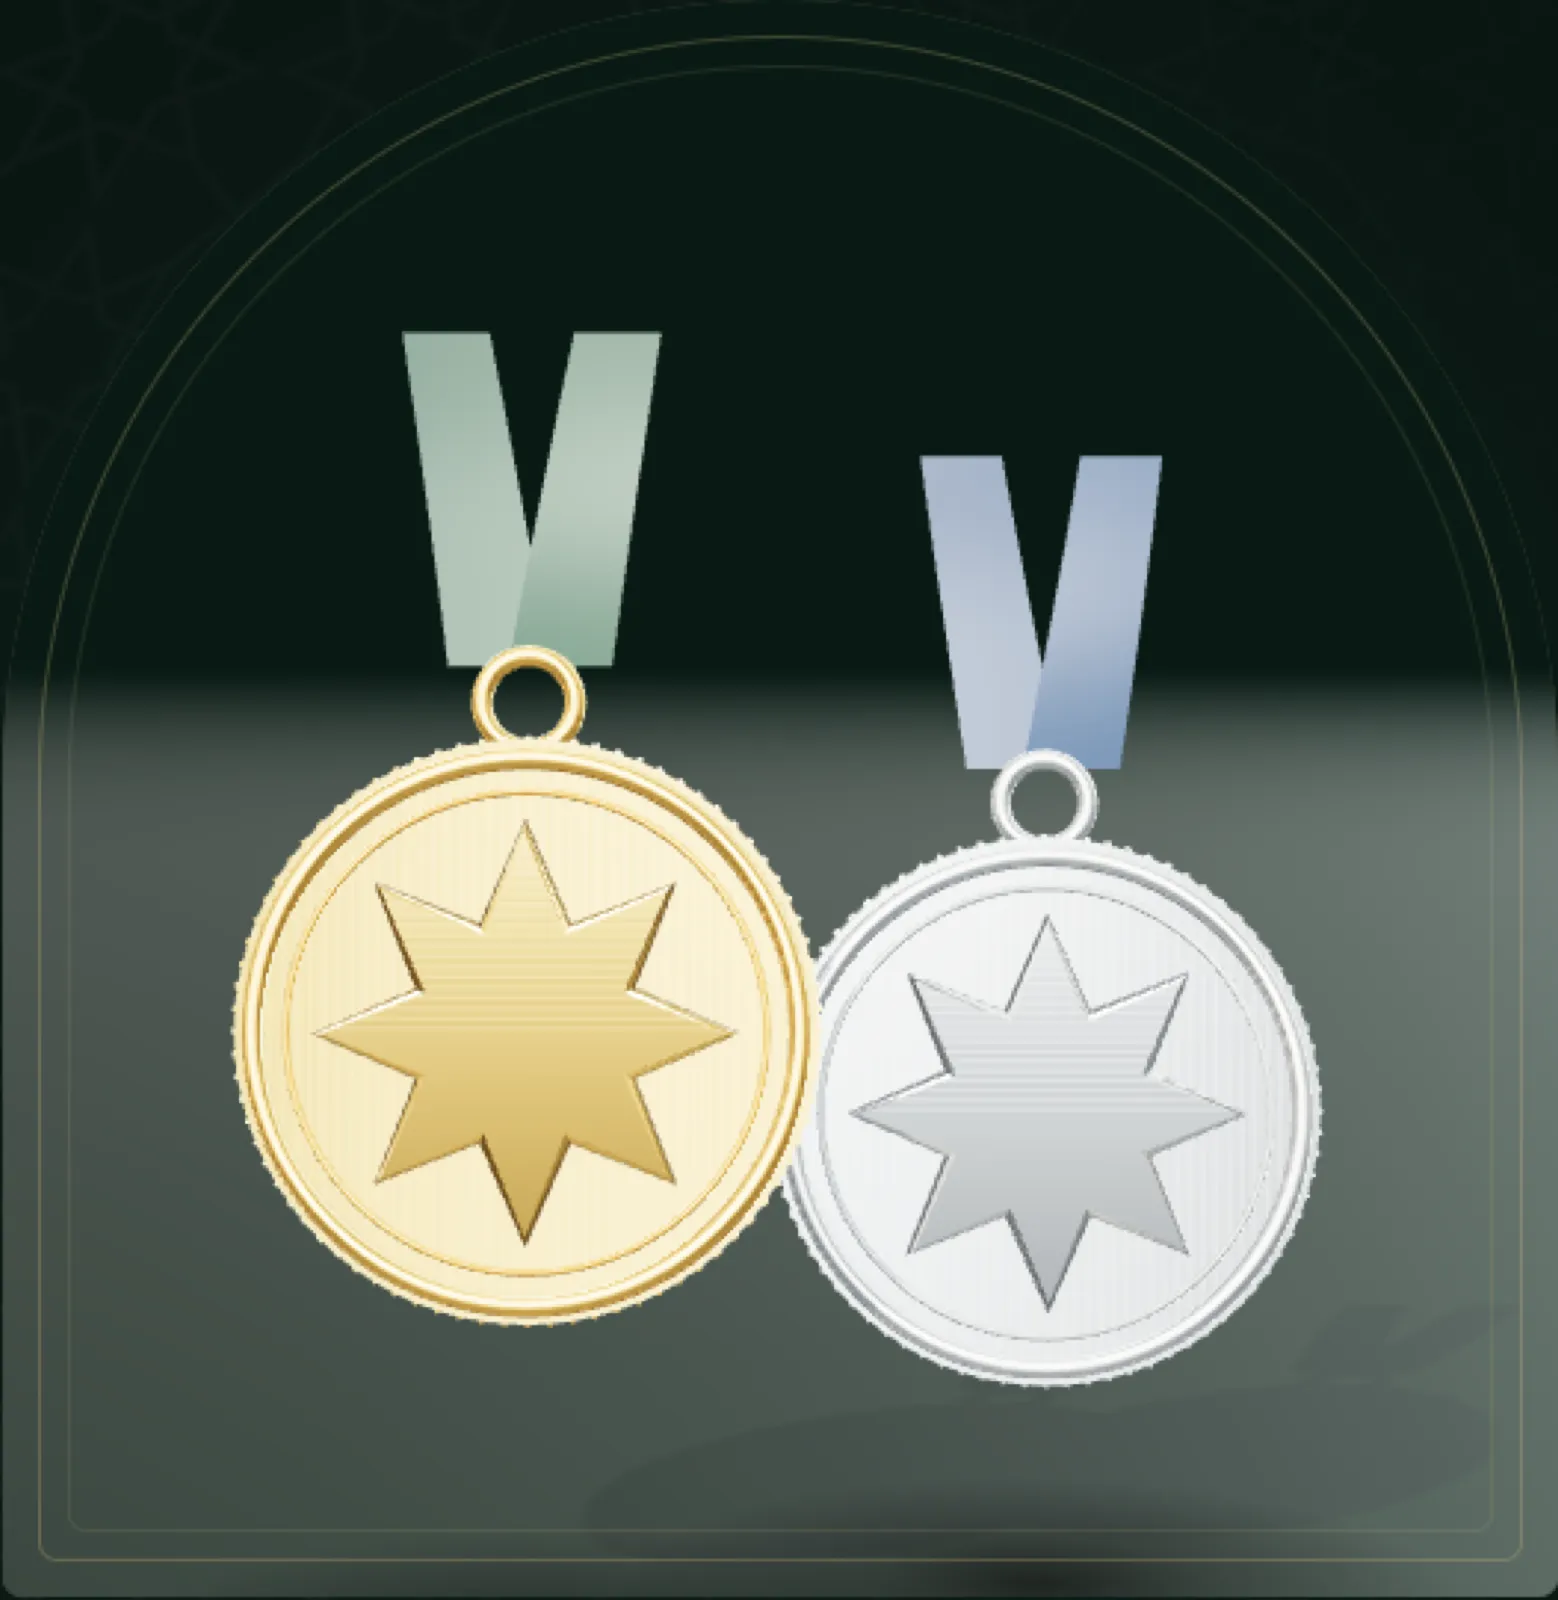
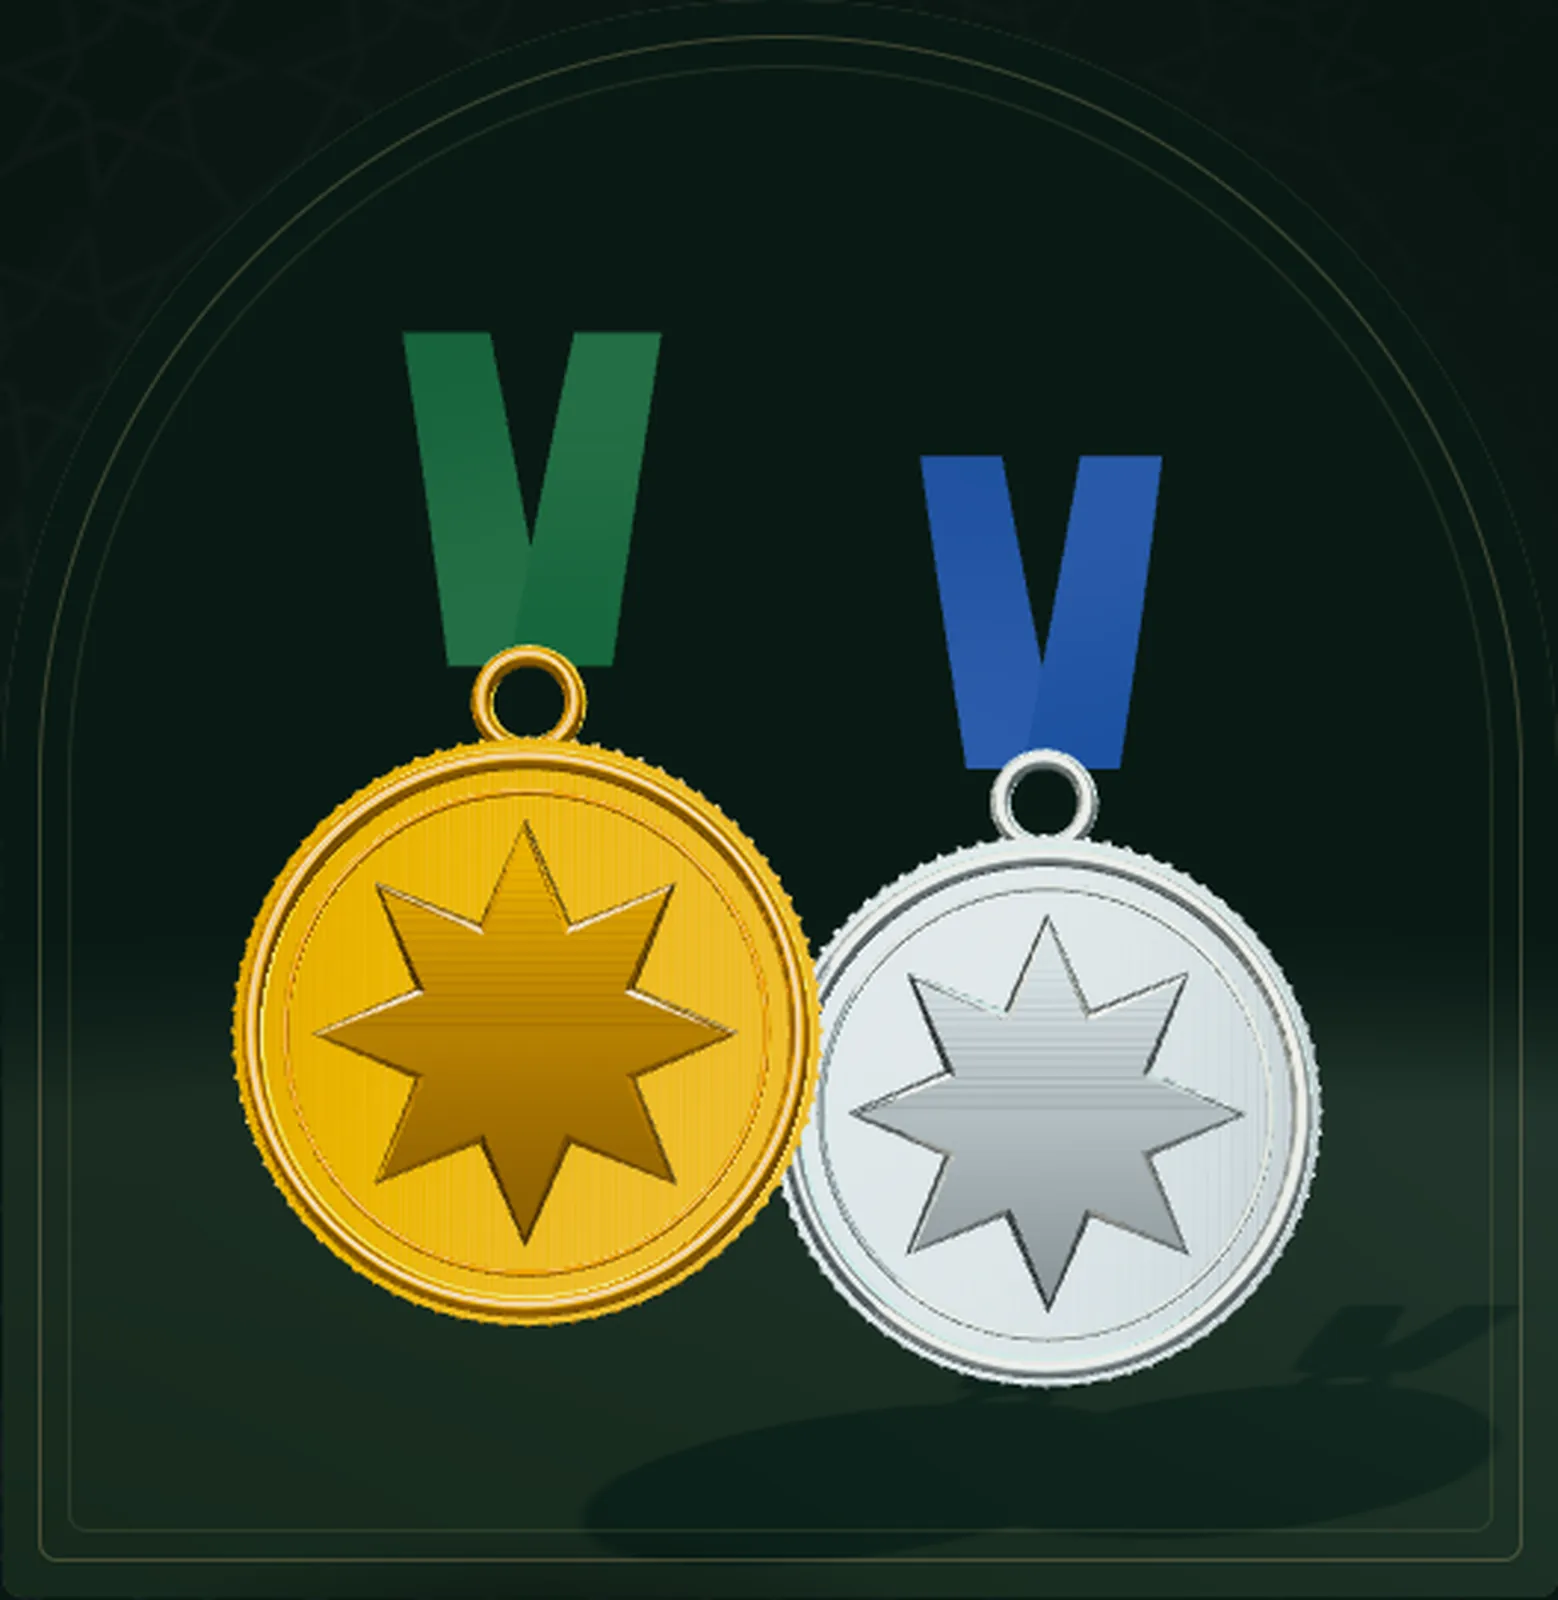
Pusingan 5: gred warna 3D (tone mapping Neutral + kontras), kulit buku dan skrin peranti terang, Jamiah lebih kaya warna, kitab berbingkai lapis dan emas, poster dijana semula

diff --git a/js/scenes/manuscript.js b/js/scenes/manuscript.js
@@ -10,10 +10,10 @@ const KEYS = [
   { p: 1, d: 0.8, e: 46, sx: 0, syPortrait: 0.04, ty: 1.5 },
 ];
 const TEX_W = 1024, TEX_H = 1572;
-const INK = '#1c140d', GOLD = '#8a6b34', RUBRIC = '#7a2e1e';
+const INK = '#1c140d', GOLD = '#9a6c1e', LAPIS = '#1f4877', GILT = '#e2bd62', RUBRIC = '#7a2e1e';
 
-function rosette(g, cx, cy, r, lw = 2) {
-  g.save(); g.translate(cx, cy); g.strokeStyle = GOLD; g.lineWidth = lw;
+function rosette(g, cx, cy, r, lw = 2, ink = GOLD) {
+  g.save(); g.translate(cx, cy); g.strokeStyle = ink; g.lineWidth = lw;
   for (const [n, k, rr] of [[8, 3, r], [8, 2, r * 0.62], [16, 7, r * 0.36]]) {
     g.beginPath();
     for (let i = 0; i <= n; i++) {
@@ -40,9 +40,9 @@ function wrap(g, text, max) {
 // bukan tulisan olok-olok). spineRight = halaman kiri, tulang di sebelah kanan lukisan.
 function paintPage(g, w, h, kind, copy, spineRight) {
   const rtl = copy.rtl, serif = rtl ? '"Amiri", "Noto Naskh Arabic", "Geeza Pro", serif' : '"Cormorant Garamond", Georgia, serif';
-  g.fillStyle = '#e9dcc0'; g.fillRect(0, 0, w, h);
+  g.fillStyle = '#f0e6d0'; g.fillRect(0, 0, w, h);
   const glow = g.createRadialGradient(w / 2, h / 2, 60, w / 2, h / 2, h * 0.72);
-  glow.addColorStop(0, 'rgba(255,250,236,.5)'); glow.addColorStop(1, 'rgba(150,118,70,.2)');
+  glow.addColorStop(0, 'rgba(255,250,236,.5)'); glow.addColorStop(1, 'rgba(150,118,70,.16)');
   g.fillStyle = glow; g.fillRect(0, 0, w, h);
   let seed = 4127;
   const random = () => { seed = (seed * 1664525 + 1013904223) >>> 0; return seed / 4294967296; };
@@ -50,10 +50,13 @@ function paintPage(g, w, h, kind, copy, spineRight) {
   const gutter = g.createLinearGradient(spineRight ? w : 0, 0, spineRight ? w - 150 : 150, 0);
   gutter.addColorStop(0, 'rgba(60,40,18,.34)'); gutter.addColorStop(1, 'rgba(60,40,18,0)');
   g.fillStyle = gutter; g.fillRect(0, 0, w, h);
-  g.strokeStyle = GOLD; g.lineWidth = 5; g.strokeRect(74, 74, w - 148, h - 148);
-  g.lineWidth = 1.6; g.strokeRect(90, 90, w - 180, h - 180); g.strokeRect(62, 62, w - 124, h - 124);
+  // Bingkai berhias: jalur lapis di antara dua garis emas, seperti halaman kitab bertazhib.
+  g.strokeStyle = LAPIS; g.lineWidth = 18; g.strokeRect(76, 76, w - 152, h - 152);
+  g.strokeStyle = GILT; g.lineWidth = 2; g.strokeRect(76, 76, w - 152, h - 152);
+  g.strokeStyle = GOLD; g.lineWidth = 4; g.strokeRect(90, 90, w - 180, h - 180); g.strokeRect(62, 62, w - 124, h - 124);
+  g.lineWidth = 1.6; g.strokeRect(102, 102, w - 204, h - 204);
   for (const [x, y] of [[90, 90], [w - 90, 90], [90, h - 90], [w - 90, h - 90]]) {
-    g.fillStyle = '#e9dcc0'; g.beginPath(); g.arc(x, y, 30, 0, Math.PI * 2); g.fill(); rosette(g, x, y, 22, 1.6);
+    g.fillStyle = LAPIS; g.beginPath(); g.arc(x, y, 32, 0, Math.PI * 2); g.fill(); g.strokeStyle = GOLD; g.lineWidth = 3; g.stroke(); rosette(g, x, y, 21, 2, GILT);
   }
   g.textAlign = 'center'; g.textBaseline = 'middle'; g.direction = rtl ? 'rtl' : 'ltr';
   const cx = w / 2, max = w - 290;
@@ -68,10 +71,10 @@ function paintPage(g, w, h, kind, copy, spineRight) {
     try { g.letterSpacing = '0px'; } catch { /* pilihan */ }
   };
   // Tiada tulisan pada mana-mana halaman (permintaan pemilik): hiasan geometri sahaja.
-  if (kind === 'body' || kind === 'fields') { rule(330); rosette(g, cx, h / 2, 130, 2.2); rosette(g, cx, h / 2, 50, 1.6); rule(h - 330); return; }
+  if (kind === 'body' || kind === 'fields') { rule(330); rosette(g, cx, h / 2, 130, 3.6); g.fillStyle = LAPIS; g.beginPath(); g.arc(cx, h / 2, 58, 0, Math.PI * 2); g.fill(); rosette(g, cx, h / 2, 50, 2.4, GILT); rule(h - 330); return; }
   if (kind === 'title') kind = 'ornament';
   if (kind === 'ornament') {
-    rosette(g, cx, h / 2, 250, 2.6); rosette(g, cx, h / 2, 96, 1.8);
+    rosette(g, cx, h / 2, 250, 4.2); g.fillStyle = LAPIS; g.beginPath(); g.arc(cx, h / 2, 111, 0, Math.PI * 2); g.fill(); rosette(g, cx, h / 2, 96, 3, GILT);
     rule(h / 2 - 400); rule(h / 2 + 400);
     return;
   }
@@ -151,7 +154,7 @@ export default async function create(ctx) {
       map.anisotropy = aniso;
       // Halaman kiri dicermin oleh geometri (scale.x = -1 atau muka belakang); tekstur dibalikkan semula.
       if (mirrored) { map.wrapS = THREE.RepeatWrapping; map.repeat.x = -1; map.offset.x = 1; }
-      faces[kind] = { map, mirrored, material: s.material({ map, color: 0xd9d2c4, roughness: 0.94, side: kind === 'body' ? THREE.FrontSide : kind === 'ornament' ? THREE.BackSide : THREE.DoubleSide }) };
+      faces[kind] = { map, mirrored, material: s.material({ map, color: 0xe4e4e2, roughness: 0.94, side: kind === 'body' ? THREE.FrontSide : kind === 'ornament' ? THREE.BackSide : THREE.DoubleSide }) };
     }
     const repaint = () => {
       const copy = readCopy(feature);

diff --git a/js/scenes/jamiah.js b/js/scenes/jamiah.js
@@ -161,7 +161,7 @@ export default async function create(ctx) {
   // Dua mood: Malam (senja zamrud, lampu galeri hangat) dan Pagi (matahari pagi Riyadh, langit gading).
   const skies = {
     night: backdrop([[0, '#050a08'], [0.54, '#091310'], [0.68, '#0e1b16'], [1, '#07100d']]),
-    day: backdrop([[0, '#c9d6d8'], [0.45, '#efe7d6'], [1, '#e9dcc4']]),
+    day: backdrop([[0, '#aecbdc'], [0.5, '#ece6d8'], [1, '#e9dcc4']]),
   };
   scene.fog = new THREE.FogExp2(0x0c1915, 0.0105);
   scene.environment = ctx.env;
@@ -184,13 +184,13 @@ export default async function create(ctx) {
   const box = new THREE.Box3().setFromObject(model);
   const size = box.getSize(new THREE.Vector3()), center = box.getCenter(new THREE.Vector3());
   const MATERIALS = {
-    stone: () => masonry(new THREE.MeshStandardMaterial({ color: 0xd8bf96, vertexColors: true, roughness: 0.91, metalness: 0 })),
+    stone: () => masonry(new THREE.MeshStandardMaterial({ color: 0xd9c3a0, vertexColors: true, roughness: 0.91, metalness: 0 })),
     bronze: () => new THREE.MeshStandardMaterial({ color: 0x5a4328, roughness: 0.3, metalness: 0.92, envMapIntensity: 1.8 }),
-    slate: () => ribbed(new THREE.MeshStandardMaterial({ color: 0x4f595e, roughness: 0.56, metalness: 0.42, envMapIntensity: 0.85 }), SPOTS.dome.at[0], SPOTS.dome.at[2]),
-    glass: () => new THREE.MeshStandardMaterial({ color: 0x0d1b20, roughness: 0.08, metalness: 0.9, envMapIntensity: 1.4, emissive: 0xdca055, emissiveIntensity: 0.48 }),
-    foliage: () => foliageTone(new THREE.MeshStandardMaterial({ color: 0x4a5938, roughness: 0.86, metalness: 0, flatShading: true })),
-    shrub: () => shrubby(new THREE.MeshStandardMaterial({ color: 0x37402e, roughness: 0.94, metalness: 0, flatShading: true })),
-    lawn: () => new THREE.MeshStandardMaterial({ color: 0x445235, roughness: 0.98, metalness: 0 }),
+    slate: () => ribbed(new THREE.MeshStandardMaterial({ color: 0x3d6276, roughness: 0.5, metalness: 0.42, envMapIntensity: 0.85 }), SPOTS.dome.at[0], SPOTS.dome.at[2]),
+    glass: () => new THREE.MeshStandardMaterial({ color: 0x0d1b20, roughness: 0.08, metalness: 0.9, envMapIntensity: 1.4, emissive: 0xffa94a, emissiveIntensity: 0.48 }),
+    foliage: () => foliageTone(new THREE.MeshStandardMaterial({ color: 0x4b6a37, roughness: 0.86, metalness: 0, flatShading: true })),
+    shrub: () => shrubby(new THREE.MeshStandardMaterial({ color: 0x35502b, roughness: 0.94, metalness: 0, flatShading: true })),
+    lawn: () => new THREE.MeshStandardMaterial({ color: 0x48603a, roughness: 0.98, metalness: 0 }),
     sign: (source) => signMap
       ? new THREE.MeshStandardMaterial({ map: signMap, transparent: true, alphaTest: 0.04, depthWrite: false, roughness: 0.62, metalness: 0.1, envMapIntensity: 0.6, polygonOffset: true, polygonOffsetFactor: -4, polygonOffsetUnits: -4 })
       : new THREE.MeshStandardMaterial({ color: 0xfff3dc, map: source.map, roughness: 0.8, metalness: 0 }),
@@ -283,8 +283,8 @@ export default async function create(ctx) {
   scene.add(key, fill, rim, pool, pool.target);
 
   const MOODS = {
-    night: { sky: skies.night, fog: 0x091310, fogD: 0.0115, env: 0.48, exposure: 0.96, key: [0xffd7a3, 2.45], keyPos: [-1.6, 0.95, 1.15], fill: [0x7e9fb3, 0x1c1510, 0.38], rim: [0xd9c192, 1.45], rimPos: [1.4, 0.85, -1.6], pool: 140, lantern: 34, floor: 0x091310, floorRough: 0.78, plinth: plinthNight, glass: 0.48, medallion: 0.075, contact: 0.65 },
-    day: { sky: skies.day, fog: 0xebe2d0, fogD: 0.0072, env: 0.75, exposure: 1.0, key: [0xfff1dc, 4.6], keyPos: [1.1, 1.05, 1.35], fill: [0xdfe9f0, 0xb79f7a, 1.25], rim: [0xfff4e0, 0.5], rimPos: [1.2, 0.7, -1.5], pool: 0, lantern: 0, floor: 0xd9ccb3, floorRough: 0.7, plinth: plinthDay, glass: 0, medallion: 0.16, contact: 0.4 },
+    night: { sky: skies.night, fog: 0x091310, fogD: 0.0115, env: 0.4, exposure: 0.9, key: [0xffe3c0, 2.9], keyPos: [-1.6, 0.95, 1.15], fill: [0x7e9fb3, 0x1c1510, 0.38], rim: [0xd9c192, 1.45], rimPos: [1.4, 0.85, -1.6], pool: 140, lantern: 34, floor: 0x091310, floorRough: 0.78, plinth: plinthNight, glass: 1.1, medallion: 0.075, contact: 0.65 },
+    day: { sky: skies.day, fog: 0xebe2d0, fogD: 0.0072, env: 0.5, exposure: 0.86, key: [0xfff6e8, 4.0], keyPos: [1.1, 1.05, 1.35], fill: [0xd6e6f2, 0x9c8d76, 0.78], rim: [0xfff4e0, 0.5], rimPos: [1.2, 0.7, -1.5], pool: 0, lantern: 0, floor: 0xdcd3c0, floorRough: 0.7, plinth: plinthDay, glass: 0, medallion: 0.16, contact: 0.4 },
   };
   // Kabus diskalakan dengan jarak asas kamera: skrin potret meletakkan kamera lebih jauh,
   // jadi ketumpatan tetap akan menenggelamkan model pada telefon.

diff --git a/js/scenes/library.js b/js/scenes/library.js
@@ -29,7 +29,8 @@ function book(s, entry, cover, paper, edges) {
   const depth = 0.075 + entry.page_count / 2 * 0.0012;
   const leatherMap = s.own(surfaceTexture('leather'));
   const leather = s.material({ color: entry.dominant_color_hex, map: leatherMap, bumpMap: leatherMap, bumpScale: 0.006, roughness: 0.56 });
-  const front = s.material({ map: cover, roughness: 0.49, metalness: 0, envMapIntensity: 0.45 });
+  // Kulit sebenar: sedikit emisif daripada imej yang sama supaya warnanya kekal terang pada semua sudut.
+  const front = s.material({ map: cover, emissive: 0xffffff, emissiveMap: cover, emissiveIntensity: 0.14, roughness: 0.56, metalness: 0, envMapIntensity: 0.3, fog: false });
   s.mesh(root, rounded(w, h, 0.036, 0.018), leather, 0, 0, -depth / 2 - 0.018);
   s.mesh(root, rounded(w - 0.065, h - 0.06, depth, 0.012), edges);
   s.mesh(root, rounded(0.07, h, depth + 0.06, 0.025), leather, -w / 2 + 0.025);
@@ -63,8 +64,8 @@ export default async function create(ctx) {
     // Sequential loading means a later failure can dispose every completed resource.
     for (const entry of entries) covers.push(await s.texture(`assets/textures/books/${entry.slug}-front-${ctx.tier === 'low' ? 1024 : 2048}.webp`));
     const pageMap = s.own(surfaceTexture('page')), edgeMap = s.own(surfaceTexture('edge'));
-    const paper = s.material({ map: pageMap, side: THREE.DoubleSide, roughness: 0.96 });
-    const edges = s.material({ map: edgeMap, roughness: 0.93, color: 0xe4d9bd });
+    const paper = s.material({ map: pageMap, color: 0xe6e8ea, side: THREE.DoubleSide, roughness: 0.96 });
+    const edges = s.material({ map: edgeMap, roughness: 0.93, color: 0xe6e4de });
     const books = entries.map((entry, i) => book(s, entry, covers[i], paper, edges));
     const k = {}, target = new THREE.Vector3();
     // Kedudukan buku: tiga sebaris; buku yang difokus mara ke hadapan, yang lain berundur dan merenggang.

diff --git a/js/scenes/common.js b/js/scenes/common.js
@@ -52,7 +52,7 @@ export function studio(ctx, radius = 3) {
   scene.background = new THREE.Color(0x091a14);
   scene.environment = ctx.env;
   scene.environmentIntensity = 0.65;
-  scene.fog = new THREE.FogExp2(0x091a14, 0.05);
+  scene.fog = new THREE.FogExp2(0x091a14, 0.04);
   const camera = new THREE.PerspectiveCamera(32, 1, 0.025, 100);
   const material = options => own(new THREE.MeshStandardMaterial(options));
   const mesh = (parent, geometry, mat, x = 0, y = 0, z = 0) => {
@@ -85,10 +85,10 @@ export function studio(ctx, radius = 3) {
   scene.add(key, rim, sky);
   // Versi Pagi / Malam (Claude): mengikut suis tema laman, sama seperti babak Jamiah.
   const MOODS = {
-    night: { bg: 0x091a14, floor: 0x0b1d16, floorRough: 0.9, env: 0.65, exposure: 1.12, key: [0xffe6cb, 3.3], rim: [0xc4e1da, 2.2], sky: [0xc8ded8, 0x332919, 0.65] },
-    day: { bg: 0xeee6d6, floor: 0xe3d8c3, floorRough: 0.8, env: 0.95, exposure: 1.0, key: [0xfff3e0, 3.6], rim: [0xffffff, 1.1], sky: [0xf3efe6, 0xb59f7c, 1.15] },
+    night: { bg: 0x091a14, fog: 0.04, floor: 0x0b1d16, floorRough: 0.9, env: 0.5, exposure: 1.0, key: [0xfff0dc, 3.6], rim: [0xbfe6dc, 2.4], sky: [0xc8ded8, 0x2b2114, 0.42] },
+    day: { bg: 0xeee6d6, fog: 0.016, floor: 0xe6e0d2, floorRough: 0.8, env: 0.6, exposure: 0.92, key: [0xfff7ec, 3.4], rim: [0xffffff, 1.0], sky: [0xf1f1ee, 0x9a8f7c, 0.7] },
   };
-  let moodName = null, exposureNow = 1.12;
+  let moodName = null, exposureNow = 1.0;
   function mood() {
     const next = isNight() ? 'night' : 'day';
     if (next === moodName) return false;
@@ -96,6 +96,7 @@ export function studio(ctx, radius = 3) {
     const m = MOODS[next];
     scene.background.setHex(m.bg);
     scene.fog.color.setHex(m.bg);
+    scene.fog.density = m.fog;
     floorMaterial.color.setHex(m.floor); floorMaterial.roughness = m.floorRough;
     scene.environmentIntensity = m.env;
     exposureNow = m.exposure;

diff --git a/js/scenes/medals.js b/js/scenes/medals.js
@@ -67,11 +67,11 @@ export default async function create(ctx) {
       g.fillStyle = '#dedede'; g.fillRect(0, 0, w, h);
       for (let y = 0; y < h; y += 2) { g.fillStyle = y % 6 ? '#c8c8c8' : '#eeeeee'; g.fillRect(0, y, w, 1); }
     }));
-    const gold = s.own(new THREE.MeshPhysicalMaterial({ color: 0xd4a448, metalness: 0.96, roughness: 0.24, roughnessMap: brush, anisotropy: ctx.tier === 'high' ? 0.2 : 0 }));
+    const gold = s.own(new THREE.MeshPhysicalMaterial({ color: 0xd9a63c, metalness: 0.96, roughness: 0.24, roughnessMap: brush, anisotropy: ctx.tier === 'high' ? 0.2 : 0 }));
     const silver = s.own(new THREE.MeshPhysicalMaterial({ color: 0xc7d0d4, metalness: 1, roughness: 0.35, roughnessMap: brush, anisotropy: ctx.tier === 'high' ? 0.17 : 0 }));
     // Reben satin: zamrud untuk emas, lapis untuk perak (tiada logo atau teks pertandingan).
-    const ribbon = s.own(new THREE.MeshPhysicalMaterial({ color: 0x0b2d21, roughness: 0.74, metalness: 0.02, sheen: 0.45, sheenColor: new THREE.Color(0x3d7a62), side: THREE.DoubleSide }));
-    const ribbonSilver = s.own(new THREE.MeshPhysicalMaterial({ color: 0x1a3556, roughness: 0.74, metalness: 0.02, sheen: 0.45, sheenColor: new THREE.Color(0x5b84b8), side: THREE.DoubleSide }));
+    const ribbon = s.own(new THREE.MeshPhysicalMaterial({ color: 0x0a4a32, roughness: 0.74, metalness: 0.02, sheen: 0.45, sheenColor: new THREE.Color(0x2f8a68), side: THREE.DoubleSide }));
+    const ribbonSilver = s.own(new THREE.MeshPhysicalMaterial({ color: 0x173f7c, roughness: 0.74, metalness: 0.02, sheen: 0.45, sheenColor: new THREE.Color(0x4a7fc8), side: THREE.DoubleSide }));
     const goldMedal = medal(s, gold, ribbon, -0.58, 1.48, 0.3);
     const silverMedal = medal(s, silver, ribbonSilver, 0.65, 1.21, -0.12);
     // Physical light sweeps over the raised relief; no emissive/neon effect.

diff --git a/js/scene-manager.js b/js/scene-manager.js
@@ -71,7 +71,21 @@ export class SceneManager {
       canvas.setAttribute('aria-hidden', 'true');
       const renderer = new THREE.WebGLRenderer({ canvas, antialias: true, alpha: true, powerPreference: 'high-performance' });
       renderer.outputColorSpace = THREE.SRGBColorSpace;
-      renderer.toneMapping = THREE.ACESFilmicToneMapping;
+      // Gred warna: tone mapping Neutral (mengekalkan warna asal kulit buku dan batu, tidak
+      // dilunturkan seperti ACES), kemudian sedikit ketepuan dan lengkung-S untuk kontras.
+      // Dibuat di dalam shader, jadi tiada pas tambahan dan tiada kos prestasi.
+      const chunk = THREE.ShaderChunk.tonemapping_pars_fragment, stub = 'vec3 CustomToneMapping( vec3 color ) { return color; }';
+      if (chunk.includes(stub)) {
+        THREE.ShaderChunk.tonemapping_pars_fragment = chunk.replace(stub, `vec3 CustomToneMapping( vec3 color ) {
+	color = NeutralToneMapping( color );
+	float luma = dot( color, vec3( 0.2126, 0.7152, 0.0722 ) );
+	color = clamp( mix( vec3( luma ), color, 1.1 ), 0.0, 1.0 );
+	vec3 display = pow( color, vec3( 1.0 / 2.2 ) );
+	display = mix( display, display * display * ( 3.0 - 2.0 * display ), 0.4 );
+	return pow( display, vec3( 2.2 ) );
+}`);
+        renderer.toneMapping = THREE.CustomToneMapping;
+      } else renderer.toneMapping = THREE.NeutralToneMapping;
       renderer.toneMappingExposure = 1.12;
       renderer.shadowMap.enabled = true;
       renderer.shadowMap.type = this.tier === 'high' ? THREE.VSMShadowMap : THREE.PCFShadowMap;

diff --git a/js/scenes/devices.js b/js/scenes/devices.js
@@ -18,7 +18,7 @@ const KEYS = [
 
 function screen(s, parent, map, w, h, x, y, z) {
   // Emissive preserves the actual screenshot; no recreated UI or overlay glass glare.
-  const material = s.material({ color: 0x000000, emissive: 0xffffff, emissiveMap: map, emissiveIntensity: 1, roughness: 0.3, toneMapped: false });
+  const material = s.material({ color: 0x000000, emissive: 0xffffff, emissiveMap: map, emissiveIntensity: 1, roughness: 1, metalness: 0, envMapIntensity: 0, fog: false, toneMapped: false });
   const mesh = s.mesh(parent, new THREE.PlaneGeometry(w, h), material, x, y, z);
   mesh.castShadow = false;
   return mesh;

diff --git a/CHANGELOG.md b/CHANGELOG.md
@@ -34,5 +34,13 @@
 - **Pepijat dibaiki:** kad "Bidang" dan panel "Pengalaman" tidak pernah muncul kerana animasi masuknya menggunakan `clip-path` penuh, yang menjadikan luas elemen sifar bagi IntersectionObserver. Kini menggunakan topeng (`mask-size`).
 - Inventori kini 13 penerbitan (3 buku). QA automatik: 31/31 lulus.
 
+### Pusingan 5 (26 Nov 2026, permintaan pemilik: warna 3D lebih terang, jelas dan tajam)
+- **Gred warna dalam shader:** tone mapping ACES (yang melunturkan warna) diganti dengan Neutral, ditambah sedikit ketepuan dan lengkung-S kontras. Tiada pas tambahan, jadi tiada kos prestasi.
+- **Buku:** kulit sebenar kini memaparkan merah, biru dan emas asalnya (sedikit emisif, tidak dikaburkan kabus).
+- **Peranti:** skrin tidak lagi berkabus atau memantul; tangkapan aplikasi sebenar jelas dalam Pagi dan Malam.
+- **Jamiah:** kubah biru lebih kaya, tingkap bercahaya ambar pada waktu Malam, tumbuhan lebih hijau, langit Pagi lebih biru, bayang lebih tegas.
+- **Kitab di atas rehal:** bingkai lapis dan emas serta roset berisi lapis (masih tanpa teks). **Pingat:** emas dan reben lebih kaya.
+- Poster semua pentas dijana semula. QA automatik: 31/31 lulus (Chromium dan WebKit).
+
 ### Tidak diubah
 - Semua fakta akademik, terjemahan, potret, PDF dan pautan. Inventori disahkan sama dengan baseline: 7 pendidikan, 3 bidang, 2 anugerah, 4 kepujian, 10 sijil, 13 penerbitan (12 asal + buku ketiga), 9 aplikasi, 6 pengalaman, 7 kursus.
